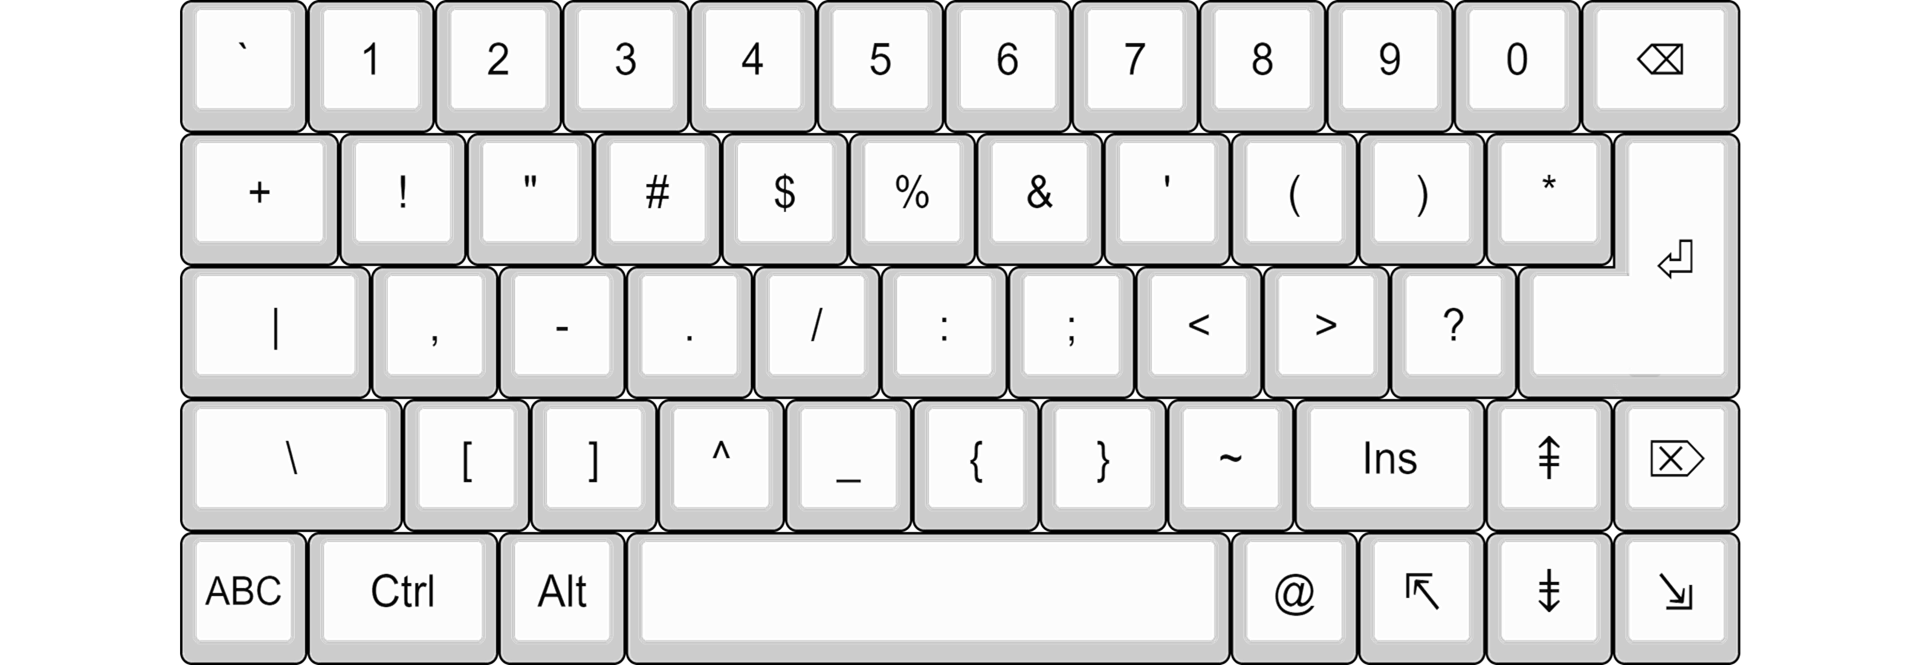
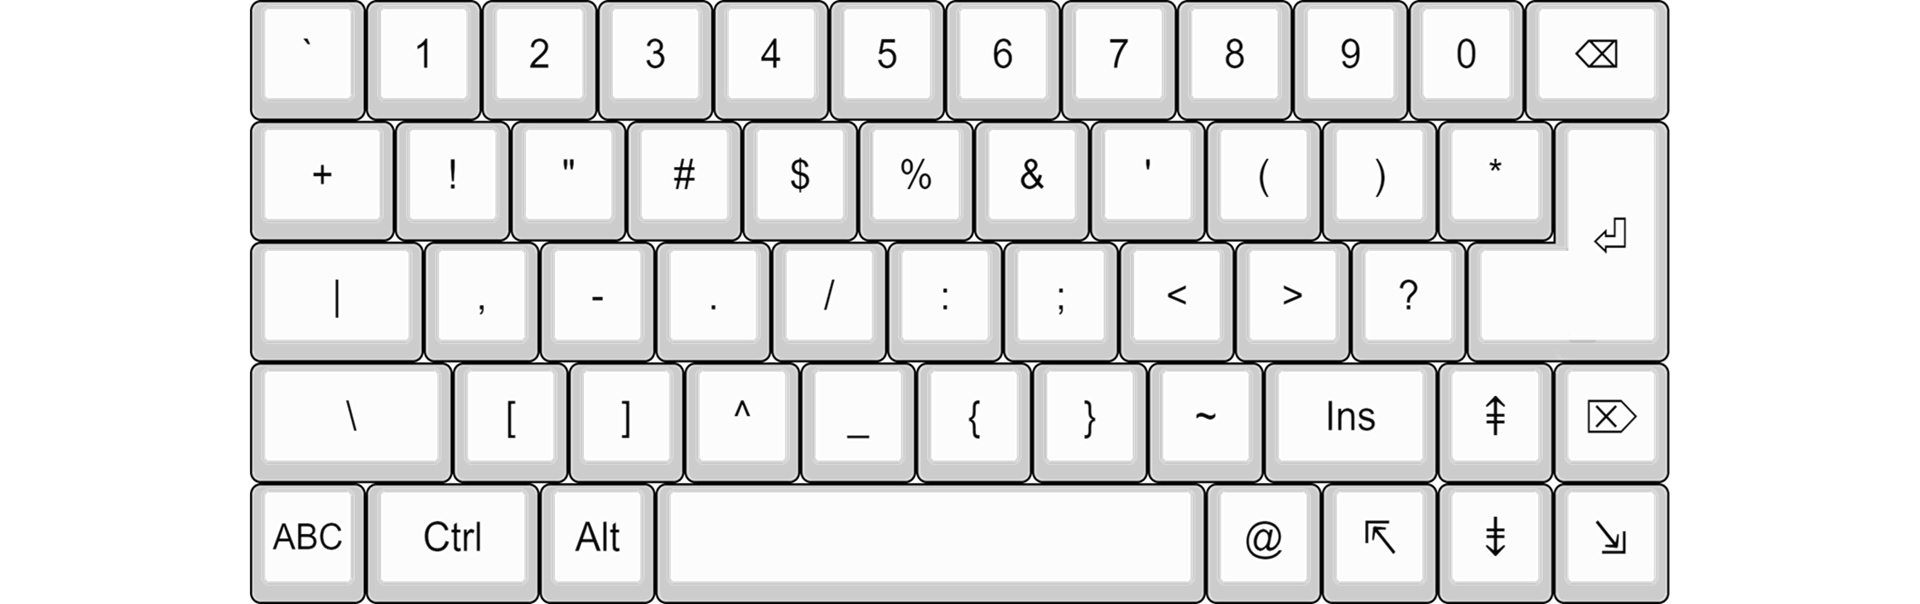
Making landscape keyboard a bit narrower and shorter.

Changed region(s): [[0.0938, 0.0, 0.9062, 1.0]]

diff --git a/core/src/main/java/com/agifans/agile/ui/KeyboardType.java b/core/src/main/java/com/agifans/agile/ui/KeyboardType.java
@@ -24,8 +24,8 @@ public enum KeyboardType {
             0.4f,
             110,
             0,
-            176,
-            1568,
+            250,
+            1421,
             0
           ),
     LANDSCAPE_UPPER_CASE(
@@ -40,8 +40,8 @@ public enum KeyboardType {
             0.4f,
             110,
             0,
-            176,
-            1568,
+            250,
+            1421,
             0
           ),
     LANDSCAPE_PUNC_NUMBERS(
@@ -56,8 +56,8 @@ public enum KeyboardType {
             0.4f,
             110,
             0,
-            176,
-            1568,
+            250,
+            1421,
             0
           ),
     PORTRAIT_LOWER_CASE(
